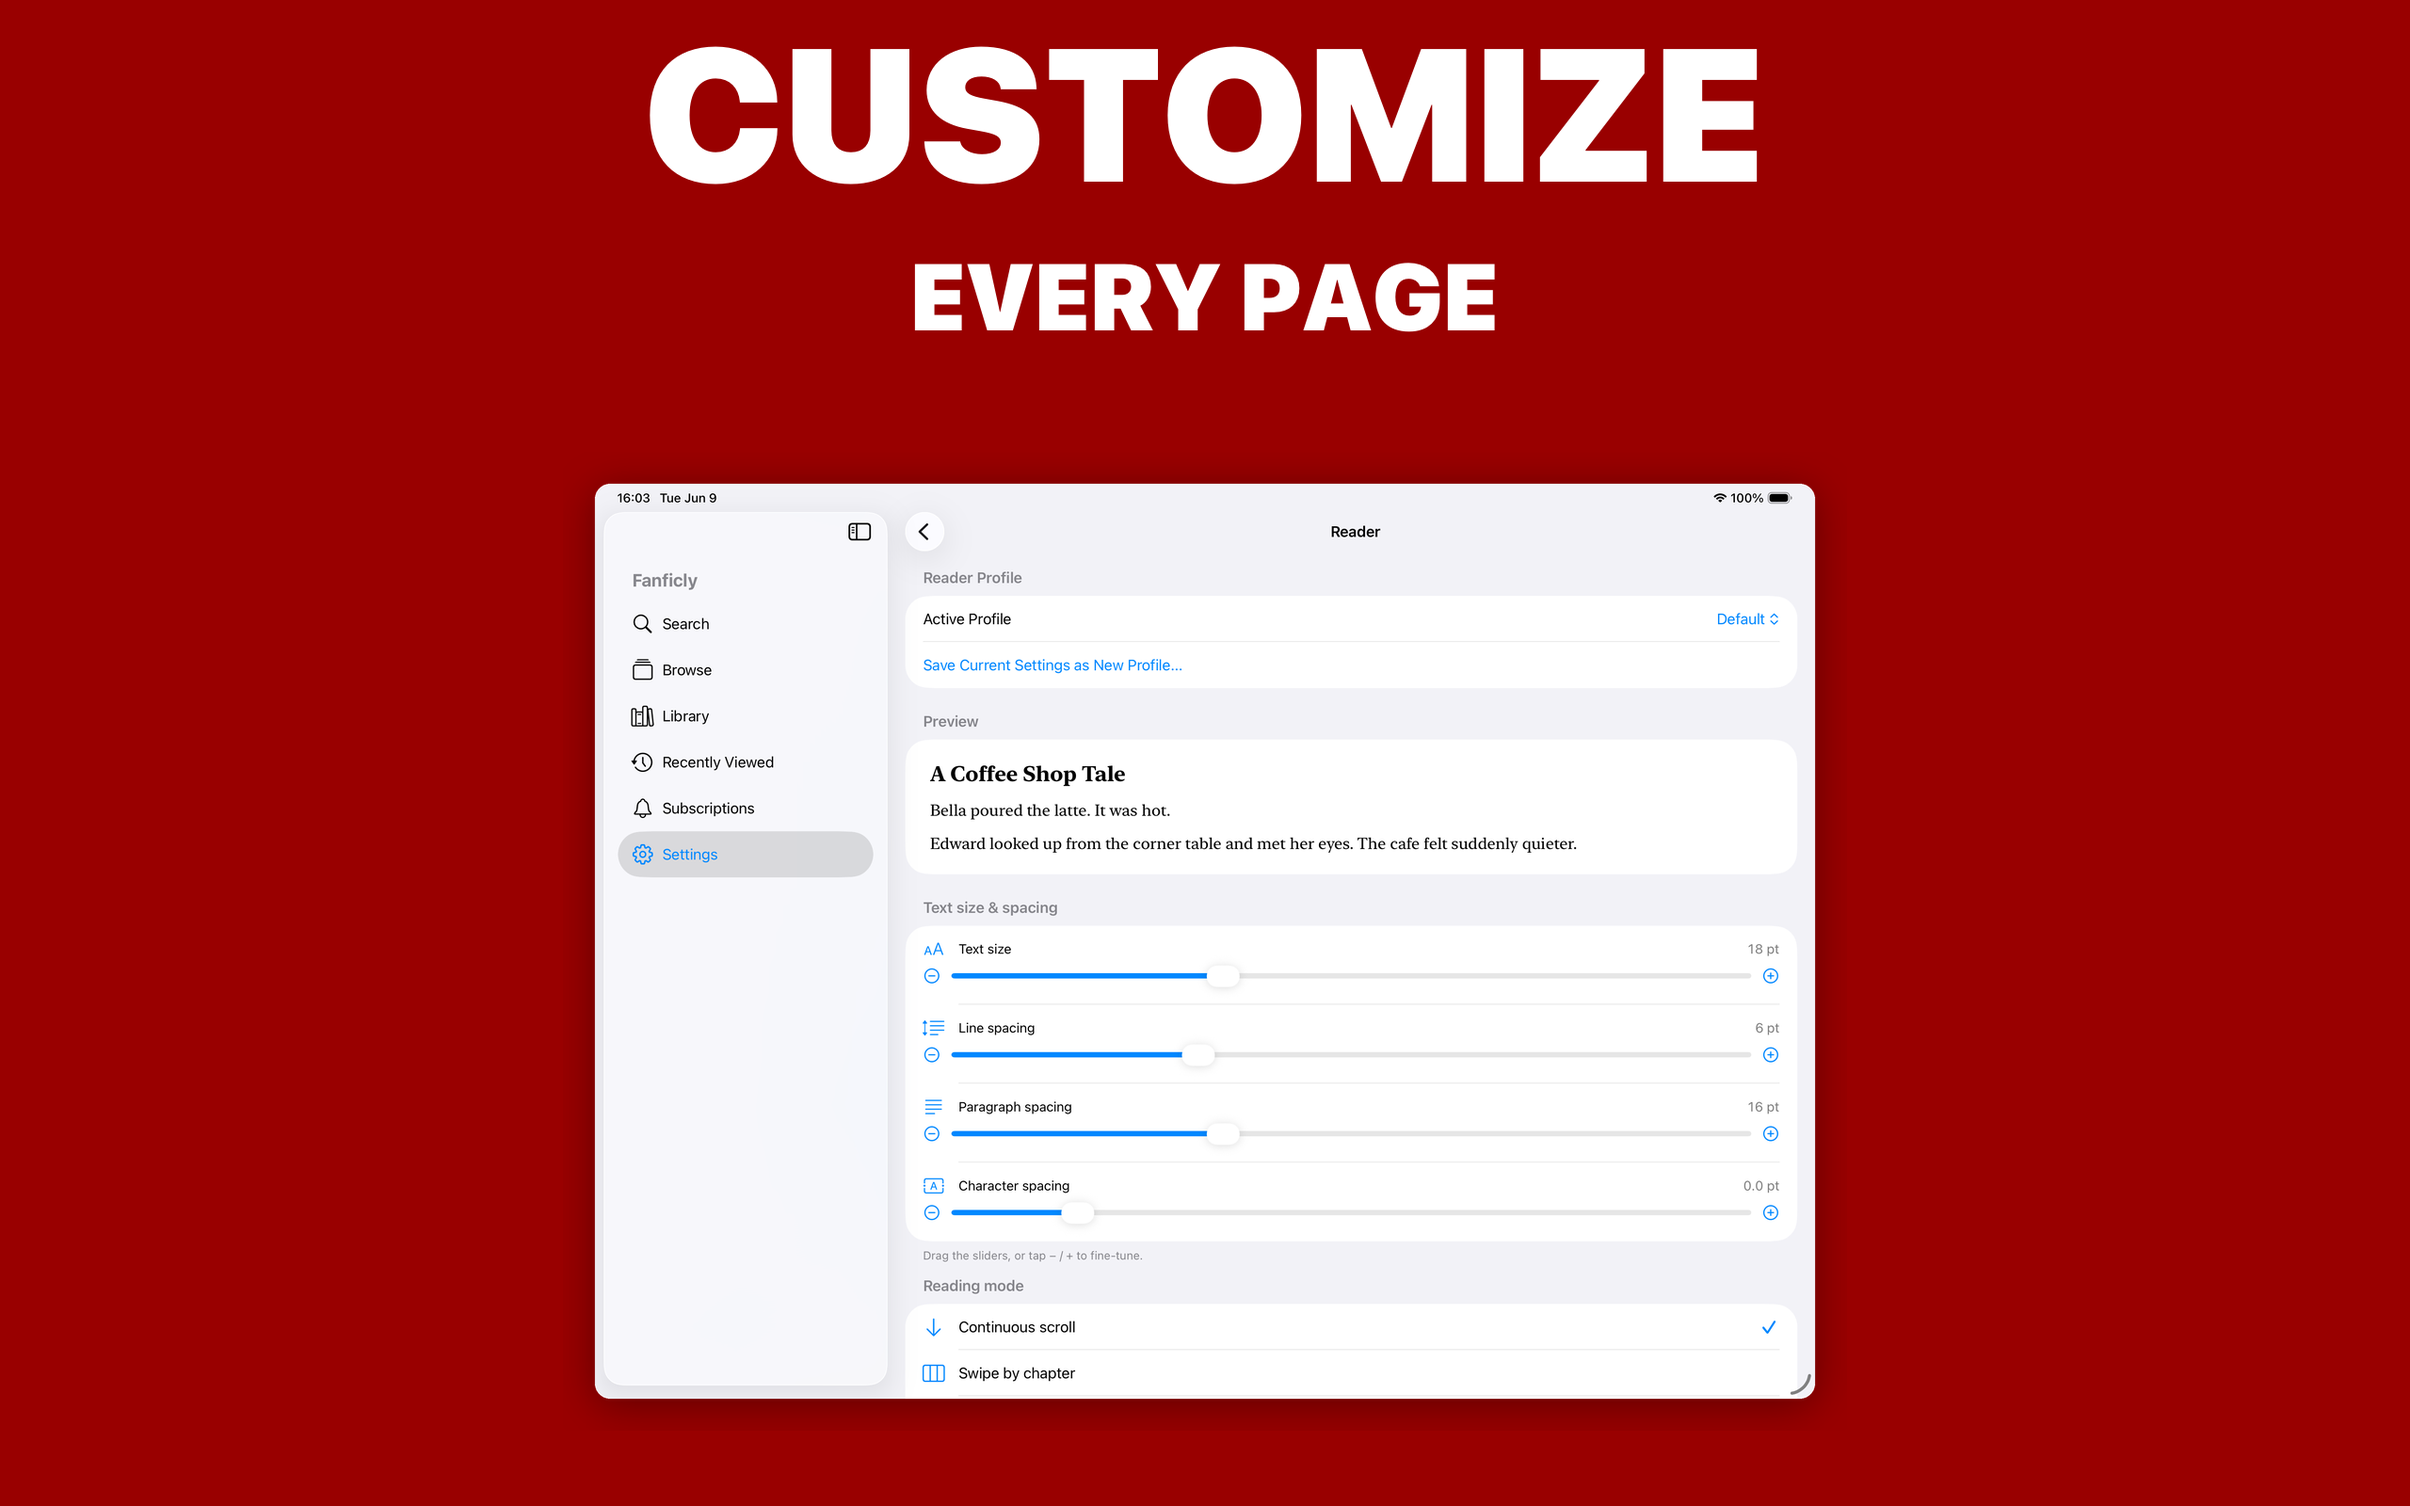
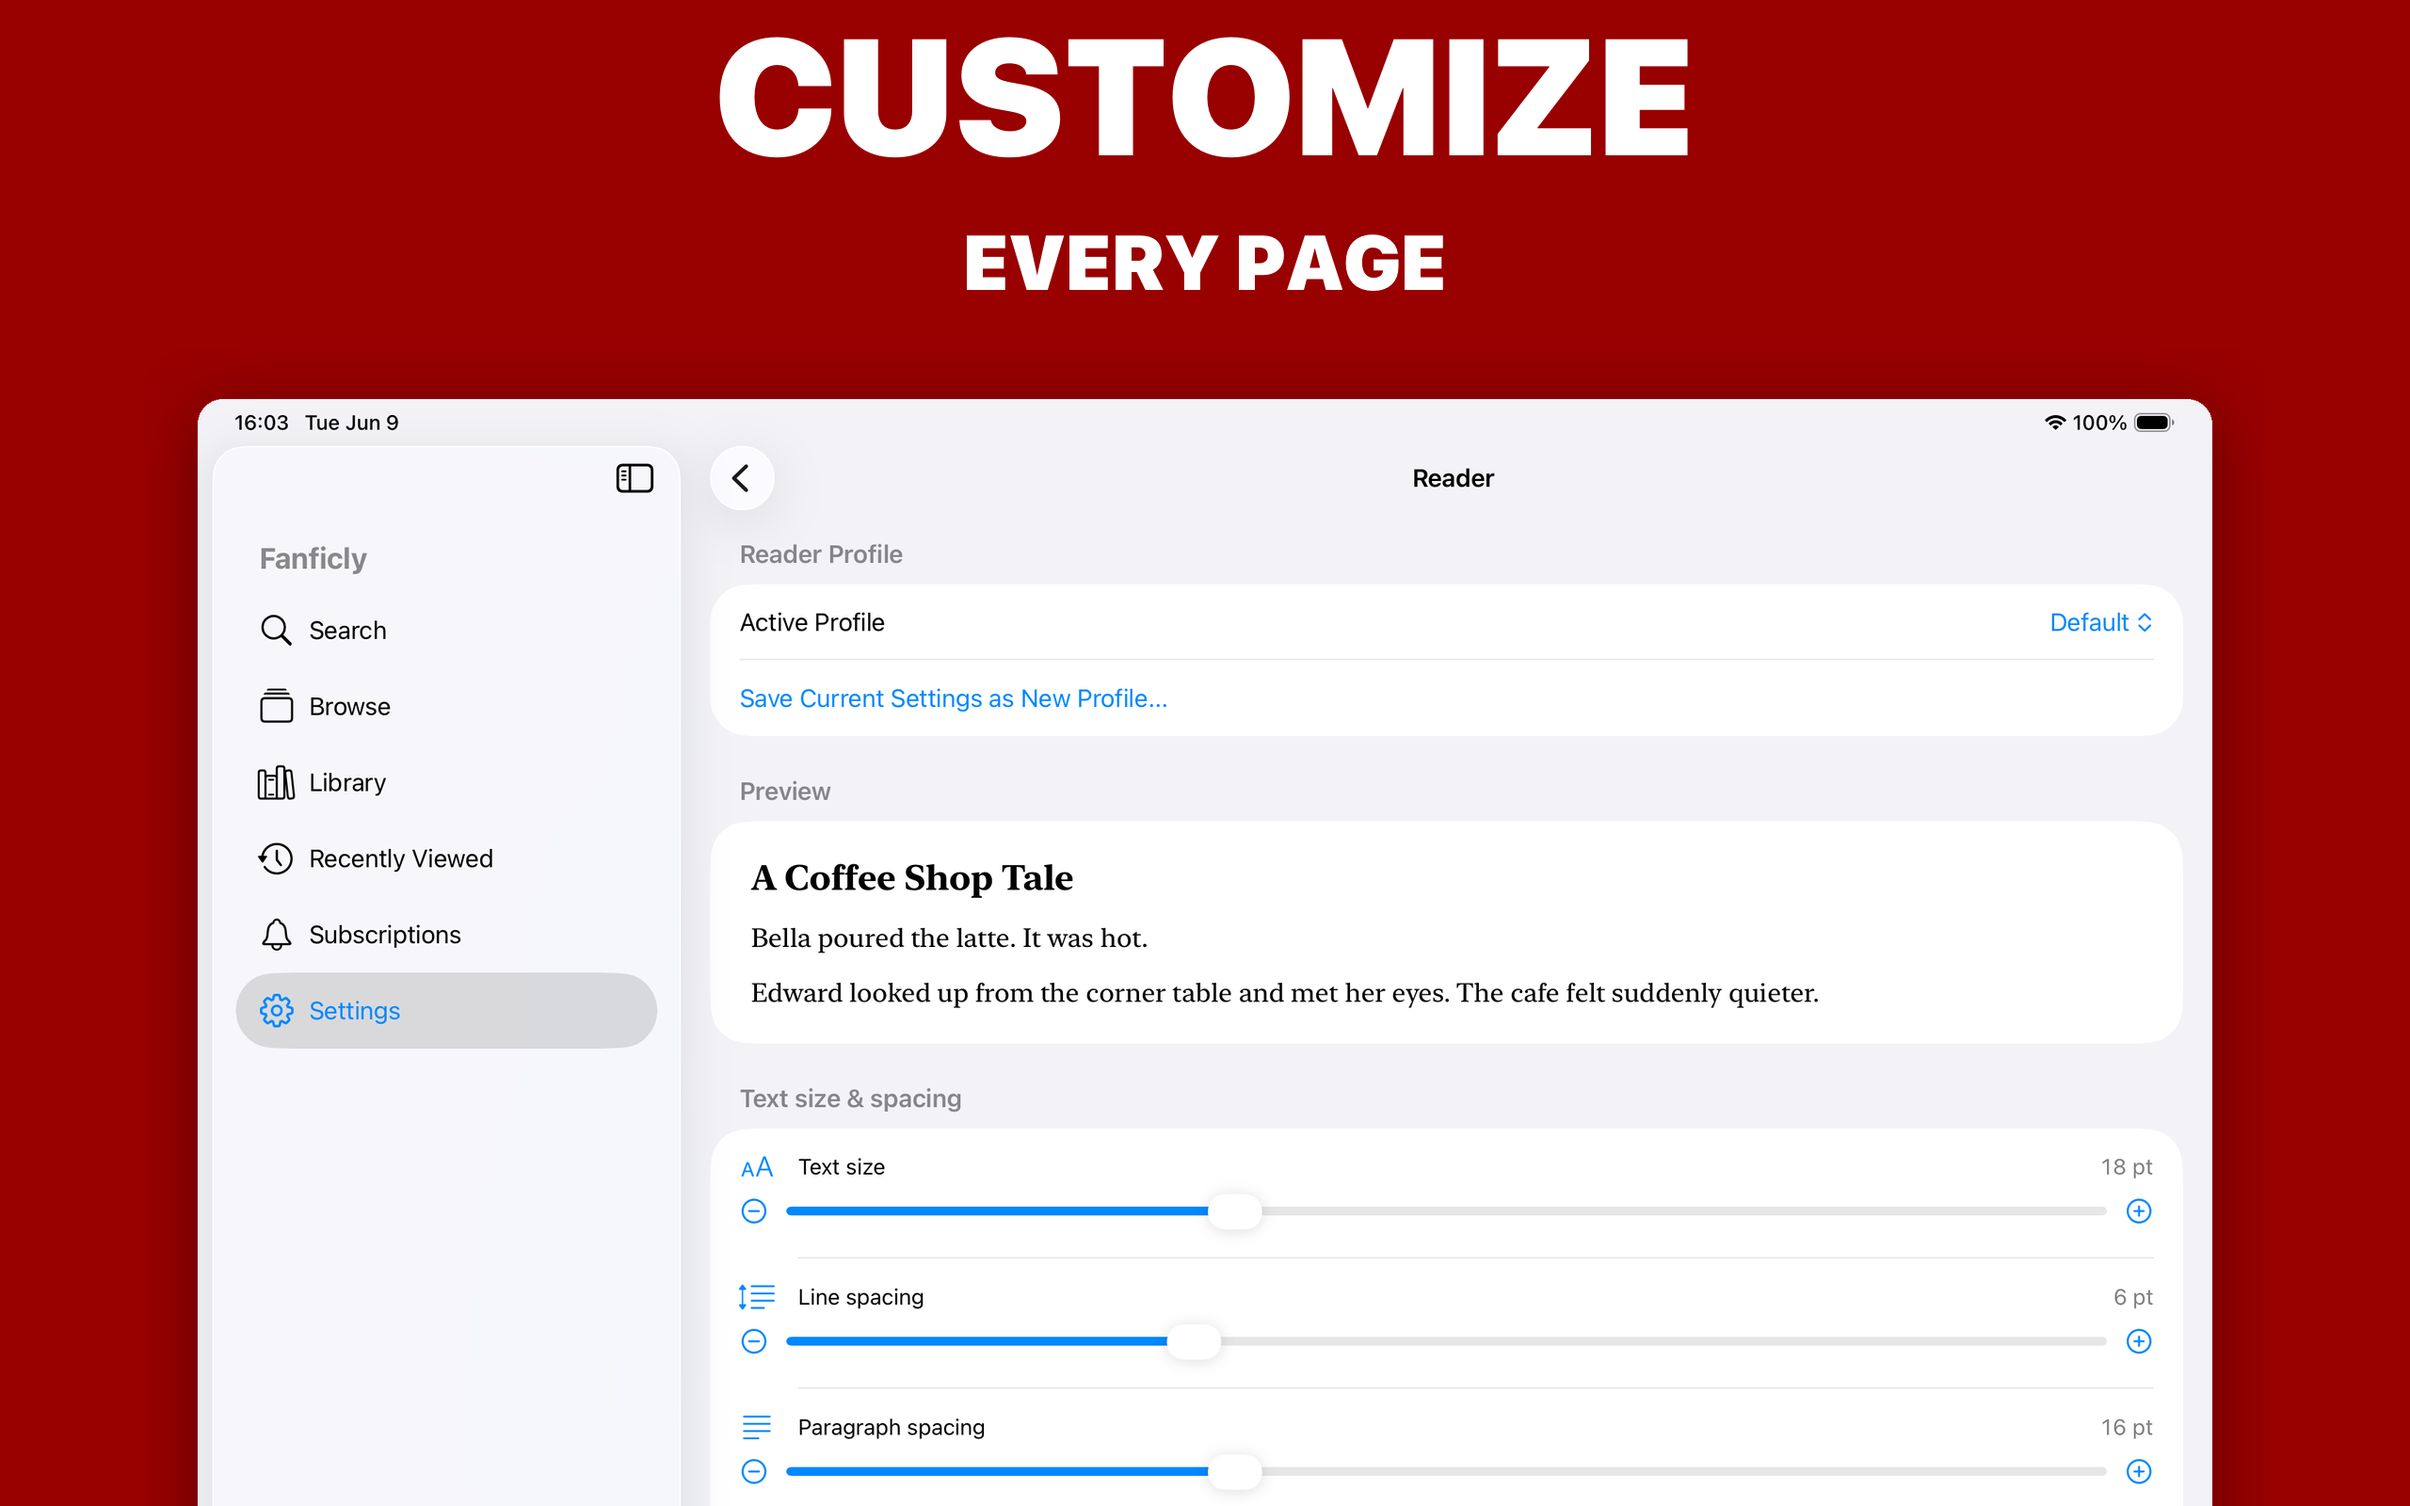
Enlarge Mac marketing window, bleed off the bottom edge (match iPhone)
The Mac floating window was clamped fully inside the 2560x1600 canvas
(fit=True), leaving it small with wide margins. Drop the clamp and size it
large (dev_w 0.62 -> 0.88, dev_top 0.30 -> 0.23) so it fills most of the
width and hangs off the bottom edge, the same way the iPhone device does.
Headline made a touch more compact to give the window room.

Regenerated the 7 Mac marketing slides.

diff --git a/bin/frame-screenshots.py b/bin/frame-screenshots.py
@@ -71,8 +71,9 @@ SLIDES = [
 # Per-device geometry. `out_w/out_h` are the exact App Store dimensions we emit.
 # iPhone/iPad go through frameit, so they carry `frame_w/frame_h` (a size frameit
 # has a frame for — iPad 13" has none, so we frame at 12.9" and composite onto the
-# 13" canvas). Mac doesn't use frameit; `fit=True` makes compose() scale the
-# floating window to fit inside the landscape canvas so it's never clipped.
+# 13" canvas). Mac doesn't use frameit; the floating window is sized large and
+# allowed to bleed off the bottom edge (like the iPhone device), so omit `fit`.
+# (`fit=True` would instead clamp it fully inside the canvas — smaller.)
 DEVICES = {
     "iphone": dict(out_w=1320, out_h=2868, frame_w=1320, frame_h=2868,
                    text_top=0.045, verb_max=232, verb_min=120, desc=116,
@@ -81,8 +82,8 @@ DEVICES = {
                    text_top=0.052, verb_max=300, verb_min=150, desc=150,
                    dev_w=0.70, dev_top=0.300),
     "mac":    dict(out_w=2560, out_h=1600,
-                   text_top=0.060, verb_max=200, verb_min=110, desc=100,
-                   dev_w=0.62, dev_top=0.300, fit=True),
+                   text_top=0.050, verb_max=175, verb_min=100, desc=82,
+                   dev_w=0.88, dev_top=0.230),
 }
 
 
